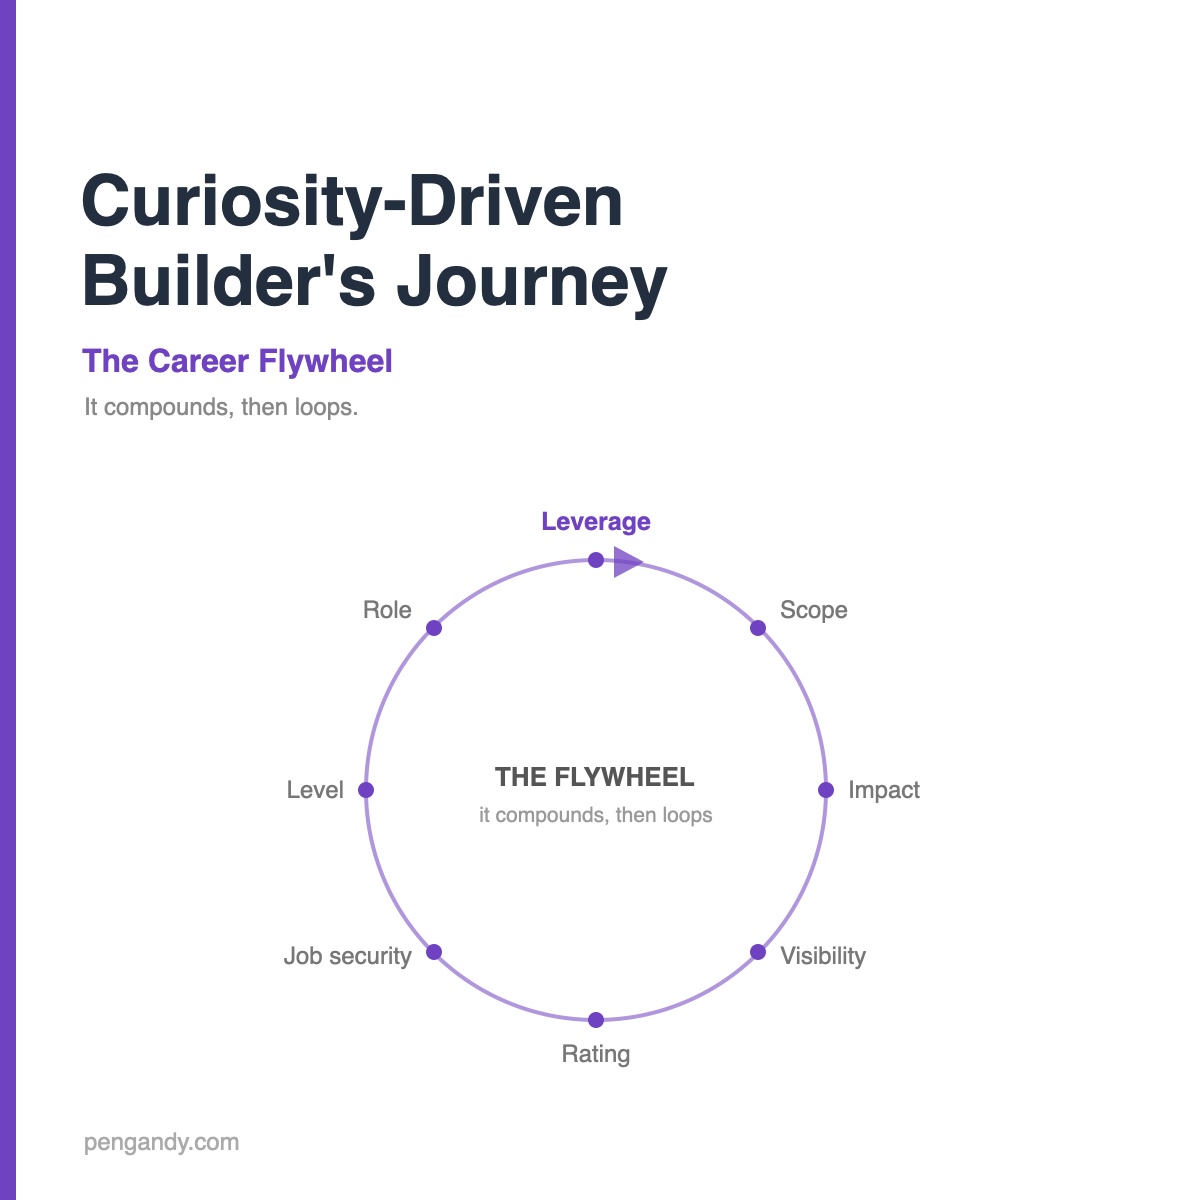
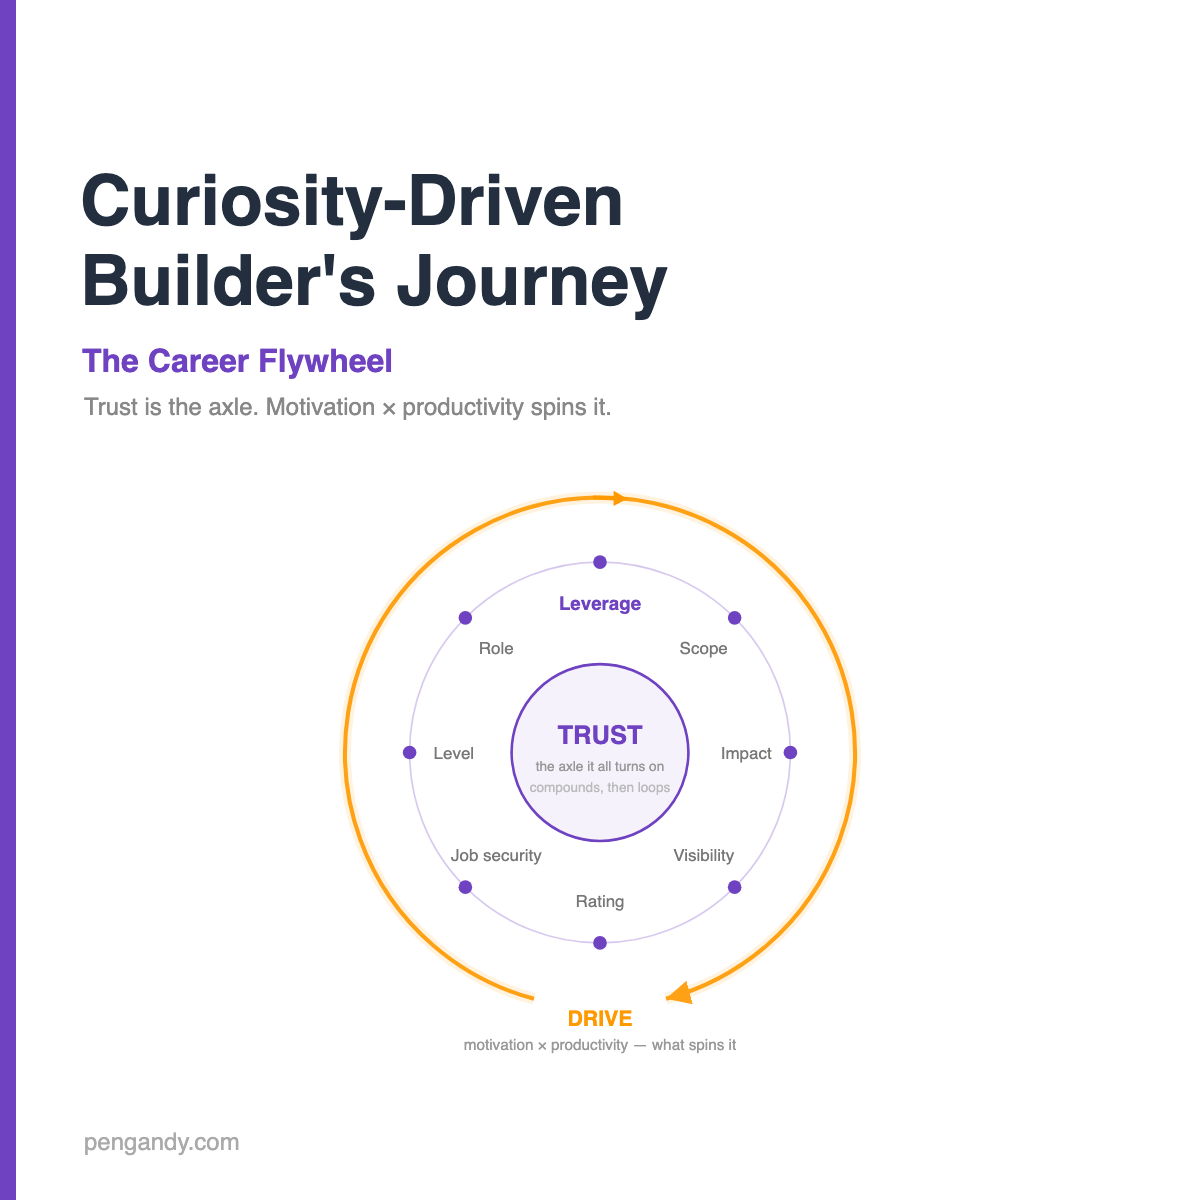
Redesign career flywheel with Trust axle and Drive ring

diff --git a/blog/2026/curiosity-driven-builder/index.html b/blog/2026/curiosity-driven-builder/index.html
@@ -1222,38 +1222,49 @@
 
                   <div class="cp-axis">1 &middot; The flywheel inside every domain</div>
                   <div class="cp-flywheel">
-                    <svg viewBox="0 0 480 320" role="img" aria-label="The compounding career flywheel">
+                    <svg viewBox="0 0 520 400" role="img" aria-label="The compounding career flywheel, driven by motivation and productivity">
                       <defs>
-                        <marker id="fwarr" markerWidth="9" markerHeight="9" refX="6" refY="3" orient="auto">
-                          <path d="M0,0 L6,3 L0,6 Z" fill="#6f42c1"/>
+                        <marker id="fwdrv" markerWidth="9" markerHeight="9" refX="6" refY="3" orient="auto">
+                          <path d="M0,0 L6,3 L0,6 Z" fill="#ff9900"/>
                         </marker>
                       </defs>
-                      <path d="M220 47 A115 115 0 1 1 260 47" fill="none" stroke="#6f42c1" stroke-width="2" opacity="0.55" marker-end="url(#fwarr)"/>
-                      <circle cx="240" cy="45" r="4" fill="#6f42c1"/>
-                      <circle cx="321" cy="79" r="4" fill="#6f42c1"/>
-                      <circle cx="355" cy="160" r="4" fill="#6f42c1"/>
-                      <circle cx="321" cy="241" r="4" fill="#6f42c1"/>
-                      <circle cx="240" cy="275" r="4" fill="#6f42c1"/>
-                      <circle cx="159" cy="241" r="4" fill="#6f42c1"/>
-                      <circle cx="125" cy="160" r="4" fill="#6f42c1"/>
-                      <circle cx="159" cy="79" r="4" fill="#6f42c1"/>
-                      <text x="240" y="30" text-anchor="middle" font-size="12.5" font-weight="700" fill="#6f42c1">Leverage</text>
-                      <text x="332" y="74" text-anchor="start" font-size="12" fill="#777">Scope</text>
-                      <text x="366" y="164" text-anchor="start" font-size="12" fill="#777">Impact</text>
-                      <text x="332" y="247" text-anchor="start" font-size="12" fill="#777">Visibility</text>
-                      <text x="240" y="296" text-anchor="middle" font-size="12" fill="#777">Rating</text>
-                      <text x="148" y="247" text-anchor="end" font-size="12" fill="#777">Job security</text>
-                      <text x="114" y="164" text-anchor="end" font-size="12" fill="#777">Level</text>
-                      <text x="148" y="74" text-anchor="end" font-size="12" fill="#777">Role</text>
-                      <!-- hub / axle: trust is what the whole wheel turns on -->
-                      <circle cx="240" cy="160" r="54" fill="rgba(111,66,193,0.07)" stroke="#6f42c1" stroke-width="1.5"/>
-                      <circle cx="240" cy="160" r="54" fill="none" stroke="#6f42c1" stroke-width="1" stroke-dasharray="2 4" opacity="0.5"/>
-                      <text x="240" y="150" text-anchor="middle" font-size="15" font-weight="700" fill="#6f42c1">TRUST</text>
-                      <text x="240" y="167" text-anchor="middle" font-size="8.5" fill="#999">the axle it all turns on</text>
-                      <text x="240" y="181" text-anchor="middle" font-size="8.5" fill="#bbb">compounds, then loops</text>
+
+                      <!-- OUTER DRIVE RING: motivation x productivity, the energy that spins the whole wheel and encloses every element -->
+                      <path d="M221.2 329.9 A150 150 0 1 1 298.8 329.9" fill="none" stroke="#ff9900" stroke-width="7" opacity="0.12"/>
+                      <path d="M221.2 329.9 A150 150 0 1 1 298.8 329.9" fill="none" stroke="#ff9900" stroke-width="2.2" opacity="0.85" marker-end="url(#fwdrv)"/>
+                      <path d="M256 35 L270 35.6" fill="none" stroke="#ff9900" stroke-width="2.2"/>
+                      <path d="M268 31 L276 35.8 L268 40 Z" fill="#ff9900"/>
+                      <text x="260" y="346" text-anchor="middle" font-size="12.5" font-weight="700" fill="#ff9900">DRIVE</text>
+                      <text x="260" y="360" text-anchor="middle" font-size="9" fill="#999">motivation &#215; productivity &mdash; what spins it</text>
+
+                      <!-- RIM: the compounding loop of outcomes -->
+                      <circle cx="260" cy="185" r="112" fill="none" stroke="#6f42c1" stroke-width="1" opacity="0.28"/>
+                      <circle cx="260" cy="73" r="4" fill="#6f42c1"/>
+                      <circle cx="339.2" cy="105.8" r="4" fill="#6f42c1"/>
+                      <circle cx="372" cy="185" r="4" fill="#6f42c1"/>
+                      <circle cx="339.2" cy="264.2" r="4" fill="#6f42c1"/>
+                      <circle cx="260" cy="297" r="4" fill="#6f42c1"/>
+                      <circle cx="180.8" cy="264.2" r="4" fill="#6f42c1"/>
+                      <circle cx="148" cy="185" r="4" fill="#6f42c1"/>
+                      <circle cx="180.8" cy="105.8" r="4" fill="#6f42c1"/>
+                      <text x="260" y="101" text-anchor="middle" font-size="11" font-weight="700" fill="#6f42c1">Leverage</text>
+                      <text x="321" y="127" text-anchor="middle" font-size="10" fill="#777">Scope</text>
+                      <text x="346" y="189" text-anchor="middle" font-size="10" fill="#777">Impact</text>
+                      <text x="321" y="249" text-anchor="middle" font-size="10" fill="#777">Visibility</text>
+                      <text x="260" y="276" text-anchor="middle" font-size="10" fill="#777">Rating</text>
+                      <text x="199" y="249" text-anchor="middle" font-size="10" fill="#777">Job security</text>
+                      <text x="174" y="189" text-anchor="middle" font-size="10" fill="#777">Level</text>
+                      <text x="199" y="127" text-anchor="middle" font-size="10" fill="#777">Role</text>
+
+                      <!-- HUB / AXLE: trust is what the whole wheel turns on -->
+                      <circle cx="260" cy="185" r="52" fill="rgba(111,66,193,0.07)" stroke="#6f42c1" stroke-width="1.5"/>
+                      <circle cx="260" cy="185" r="52" fill="none" stroke="#6f42c1" stroke-width="1" stroke-dasharray="2 4" opacity="0.5"/>
+                      <text x="260" y="180" text-anchor="middle" font-size="15" font-weight="700" fill="#6f42c1">TRUST</text>
+                      <text x="260" y="196" text-anchor="middle" font-size="8" fill="#999">the axle it all turns on</text>
+                      <text x="260" y="208" text-anchor="middle" font-size="8" fill="#bbb">compounds, then loops</text>
                     </svg>
                   </div>
-                  <p class="cp-cycle-note">The unit of the whole thing: more <strong>leverage</strong> wins <strong>scope</strong> and <strong>impact</strong>, which earns <strong>visibility</strong>, <strong>rating</strong>, <strong>job security</strong>, and a higher <strong>level &amp; role</strong> &mdash; and a bigger role hands you <em>more leverage</em> to spend. But notice the <strong>axle</strong> at the center: the wheel only turns on <strong>trust</strong>. Impact converts to visibility, and visibility to scope, only because people trust what you say and trust you with more &mdash; and unlike most skills, trust is <em>transferable across domains</em> and doesn't get commoditized by AI. The wheel turns on it.</p>
+                  <p class="cp-cycle-note">The unit of the whole thing: more <strong>leverage</strong> wins <strong>scope</strong> and <strong>impact</strong>, which earns <strong>visibility</strong>, <strong>rating</strong>, <strong>job security</strong>, and a higher <strong>level &amp; role</strong> &mdash; and a bigger role hands you <em>more leverage</em> to spend. But notice the <strong>axle</strong> at the center: the wheel only turns on <strong>trust</strong>. Impact converts to visibility, and visibility to scope, only because people trust what you say and trust you with more &mdash; and unlike most skills, trust is <em>transferable across domains</em> and doesn't get commoditized by AI. The wheel turns on it. And what gets it spinning in the first place is your own <strong>drive</strong> &mdash; how much the work <em>motivates</em> you, and how <em>productive</em> you are once you're in it: trust is the axle, motivation and productivity are the torque.</p>
 
                   <div class="cp-axis">2 &middot; The whole engine &mdash; domains &times; tech cycles &times; role &times; knowledge</div>
                   <div class="cp-engine">
@@ -2460,38 +2471,49 @@
 
                   <div class="cp-axis">1 &middot; 每个领域内部都转着的那只飞轮</div>
                   <div class="cp-flywheel">
-                    <svg viewBox="0 0 480 320" role="img" aria-label="复利型职业飞轮">
+                    <svg viewBox="0 0 520 400" role="img" aria-label="由动力与生产力驱动的复利型职业飞轮">
                       <defs>
-                        <marker id="fwarrz" markerWidth="9" markerHeight="9" refX="6" refY="3" orient="auto">
-                          <path d="M0,0 L6,3 L0,6 Z" fill="#6f42c1"/>
+                        <marker id="fwdrvz" markerWidth="9" markerHeight="9" refX="6" refY="3" orient="auto">
+                          <path d="M0,0 L6,3 L0,6 Z" fill="#ff9900"/>
                         </marker>
                       </defs>
-                      <path d="M220 47 A115 115 0 1 1 260 47" fill="none" stroke="#6f42c1" stroke-width="2" opacity="0.55" marker-end="url(#fwarrz)"/>
-                      <circle cx="240" cy="45" r="4" fill="#6f42c1"/>
-                      <circle cx="321" cy="79" r="4" fill="#6f42c1"/>
-                      <circle cx="355" cy="160" r="4" fill="#6f42c1"/>
-                      <circle cx="321" cy="241" r="4" fill="#6f42c1"/>
-                      <circle cx="240" cy="275" r="4" fill="#6f42c1"/>
-                      <circle cx="159" cy="241" r="4" fill="#6f42c1"/>
-                      <circle cx="125" cy="160" r="4" fill="#6f42c1"/>
-                      <circle cx="159" cy="79" r="4" fill="#6f42c1"/>
-                      <text x="240" y="30" text-anchor="middle" font-size="12.5" font-weight="700" fill="#6f42c1">杠杆</text>
-                      <text x="332" y="74" text-anchor="start" font-size="12" fill="#777">范围</text>
-                      <text x="366" y="164" text-anchor="start" font-size="12" fill="#777">影响力</text>
-                      <text x="332" y="247" text-anchor="start" font-size="12" fill="#777">能见度</text>
-                      <text x="240" y="296" text-anchor="middle" font-size="12" fill="#777">评级</text>
-                      <text x="148" y="247" text-anchor="end" font-size="12" fill="#777">工作稳定性</text>
-                      <text x="114" y="164" text-anchor="end" font-size="12" fill="#777">职级</text>
-                      <text x="148" y="74" text-anchor="end" font-size="12" fill="#777">角色</text>
+
+                      <!-- 外环·驱动力：动力 x 生产力，是让整只轮子转动、并把所有元素包裹其中的能量 -->
+                      <path d="M221.2 329.9 A150 150 0 1 1 298.8 329.9" fill="none" stroke="#ff9900" stroke-width="7" opacity="0.12"/>
+                      <path d="M221.2 329.9 A150 150 0 1 1 298.8 329.9" fill="none" stroke="#ff9900" stroke-width="2.2" opacity="0.85" marker-end="url(#fwdrvz)"/>
+                      <path d="M256 35 L270 35.6" fill="none" stroke="#ff9900" stroke-width="2.2"/>
+                      <path d="M268 31 L276 35.8 L268 40 Z" fill="#ff9900"/>
+                      <text x="260" y="346" text-anchor="middle" font-size="12.5" font-weight="700" fill="#ff9900">驱动力</text>
+                      <text x="260" y="360" text-anchor="middle" font-size="9" fill="#999">动力 &#215; 生产力 &mdash; 让它转起来的力</text>
+
+                      <!-- 轮辋·复利循环的各项产出 -->
+                      <circle cx="260" cy="185" r="112" fill="none" stroke="#6f42c1" stroke-width="1" opacity="0.28"/>
+                      <circle cx="260" cy="73" r="4" fill="#6f42c1"/>
+                      <circle cx="339.2" cy="105.8" r="4" fill="#6f42c1"/>
+                      <circle cx="372" cy="185" r="4" fill="#6f42c1"/>
+                      <circle cx="339.2" cy="264.2" r="4" fill="#6f42c1"/>
+                      <circle cx="260" cy="297" r="4" fill="#6f42c1"/>
+                      <circle cx="180.8" cy="264.2" r="4" fill="#6f42c1"/>
+                      <circle cx="148" cy="185" r="4" fill="#6f42c1"/>
+                      <circle cx="180.8" cy="105.8" r="4" fill="#6f42c1"/>
+                      <text x="260" y="101" text-anchor="middle" font-size="11" font-weight="700" fill="#6f42c1">杠杆</text>
+                      <text x="321" y="127" text-anchor="middle" font-size="10" fill="#777">范围</text>
+                      <text x="346" y="189" text-anchor="middle" font-size="10" fill="#777">影响力</text>
+                      <text x="321" y="249" text-anchor="middle" font-size="10" fill="#777">能见度</text>
+                      <text x="260" y="276" text-anchor="middle" font-size="10" fill="#777">评级</text>
+                      <text x="199" y="249" text-anchor="middle" font-size="10" fill="#777">工作稳定性</text>
+                      <text x="174" y="189" text-anchor="middle" font-size="10" fill="#777">职级</text>
+                      <text x="199" y="127" text-anchor="middle" font-size="10" fill="#777">角色</text>
+
                       <!-- 轮毂 / 轴：整只轮子都靠信任转动 -->
-                      <circle cx="240" cy="160" r="54" fill="rgba(111,66,193,0.07)" stroke="#6f42c1" stroke-width="1.5"/>
-                      <circle cx="240" cy="160" r="54" fill="none" stroke="#6f42c1" stroke-width="1" stroke-dasharray="2 4" opacity="0.5"/>
-                      <text x="240" y="150" text-anchor="middle" font-size="15" font-weight="700" fill="#6f42c1">信任</text>
-                      <text x="240" y="167" text-anchor="middle" font-size="8.5" fill="#999">整只轮子转动所凭的轴</text>
-                      <text x="240" y="181" text-anchor="middle" font-size="8.5" fill="#bbb">先复利，再循环</text>
+                      <circle cx="260" cy="185" r="52" fill="rgba(111,66,193,0.07)" stroke="#6f42c1" stroke-width="1.5"/>
+                      <circle cx="260" cy="185" r="52" fill="none" stroke="#6f42c1" stroke-width="1" stroke-dasharray="2 4" opacity="0.5"/>
+                      <text x="260" y="180" text-anchor="middle" font-size="15" font-weight="700" fill="#6f42c1">信任</text>
+                      <text x="260" y="196" text-anchor="middle" font-size="8" fill="#999">整只轮子转动所凭的轴</text>
+                      <text x="260" y="208" text-anchor="middle" font-size="8" fill="#bbb">先复利，再循环</text>
                     </svg>
                   </div>
-                  <p class="cp-cycle-note">这一切的基本单元：更多的<strong>杠杆</strong>赢得<strong>范围</strong>与<strong>影响力</strong>，进而换来<strong>能见度</strong>、<strong>评级</strong>、<strong>工作稳定性</strong>，以及更高的<strong>职级与角色</strong>——而更大的角色又会交给你<em>更多杠杆</em>去花。但请留意中心那根<strong>轴</strong>：轮子只在<strong>信任</strong>之上转动。影响力之所以能换成能见度、能见度之所以能换成范围，全因为人们信任你所说的、也愿意把更多托付给你——而与大多数技能不同，信任<em>可以跨领域迁移</em>，也不会被 AI 商品化。轮子，正是靠它转起来的。</p>
+                  <p class="cp-cycle-note">这一切的基本单元：更多的<strong>杠杆</strong>赢得<strong>范围</strong>与<strong>影响力</strong>，进而换来<strong>能见度</strong>、<strong>评级</strong>、<strong>工作稳定性</strong>，以及更高的<strong>职级与角色</strong>——而更大的角色又会交给你<em>更多杠杆</em>去花。但请留意中心那根<strong>轴</strong>：轮子只在<strong>信任</strong>之上转动。影响力之所以能换成能见度、能见度之所以能换成范围，全因为人们信任你所说的、也愿意把更多托付给你——而与大多数技能不同，信任<em>可以跨领域迁移</em>，也不会被 AI 商品化。轮子，正是靠它转起来的。而最初推动它转动的，是你自己的<strong>驱动力</strong>——这份工作有多能<em>激发你的动力</em>，以及你投入其中时有多<em>高产</em>：信任是那根轴，动力与生产力则是让它转动的扭矩。</p>
 
                   <div class="cp-axis">2 &middot; 整台引擎 &mdash; 领域 &times; 技术周期 &times; 角色 &times; 知识</div>
                   <div class="cp-engine">
